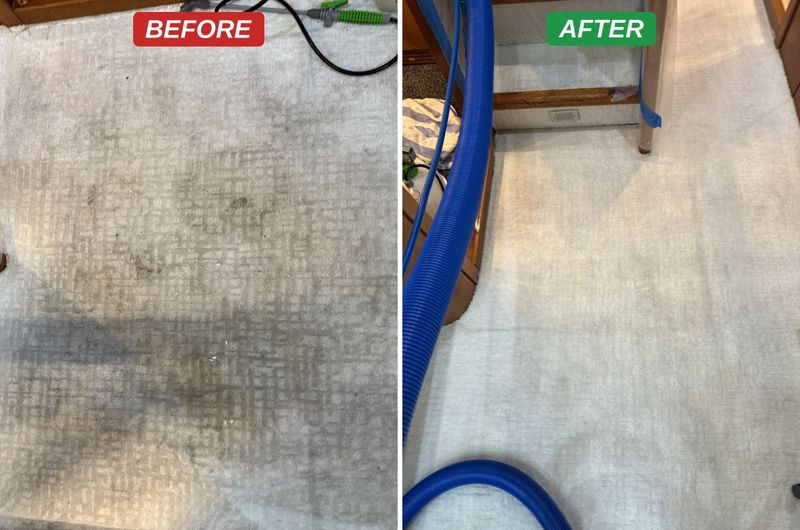
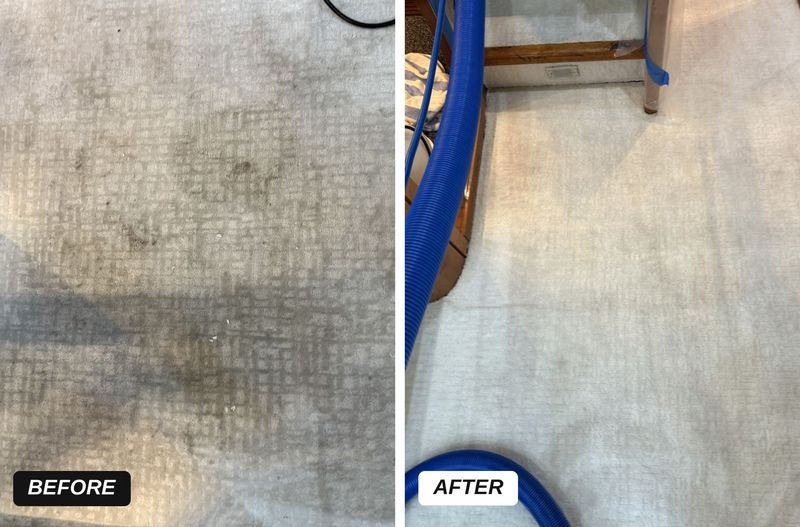
Move gallery badges to the bottom and add two more yacht jobs
Rebuild the salon, companionway stairs and passageway composites in the
bottom-badge layout (black BEFORE / white AFTER, bottom-left of each
half) so they match the new photos. Add the interior staircase and water
stain jobs, and centre the gallery's short last row.

Claude-Session: https://claude.ai/code/session_01GkRRDJhjXKMQgeat6JLyYT

diff --git a/precision-cleaning/src/App.jsx b/precision-cleaning/src/App.jsx
@@ -250,6 +250,8 @@ const SERVICE_DATA = {
       { image: "/images/marine/carpet-salon", title: "Salon Carpet", caption: "Traffic lanes & ground-in soiling lifted", alt: "Yacht salon carpet before and after steam extraction" },
       { image: "/images/marine/carpet-stairs", title: "Companionway Stairs", caption: "Every tread deep cleaned, walls masked & protected", alt: "Yacht companionway stair carpet before and after cleaning" },
       { image: "/images/marine/carpet-passage", title: "Passageway Carpet", caption: "Heavy soiling & spotting extracted", alt: "Yacht passageway carpet before and after steam extraction" },
+      { image: "/images/marine/carpet-staircase", title: "Interior Staircase", caption: "Traffic soiling lifted & pile restored on every step", alt: "Yacht interior staircase carpet before and after cleaning" },
+      { image: "/images/marine/carpet-water-stain", title: "Water Stain Removal", caption: "Brown water staining lifted from light carpet", alt: "Light yacht carpet with brown water stains before and after cleaning" },
     ],
     services: [
       {
@@ -547,7 +549,7 @@ export default function PrecisionCleaning() {
 
         @media (max-width: 900px) {
           .showcase-row, .pricing-grid { grid-template-columns: 1fr !important; gap: 32px !important; }
-          .gallery-grid { grid-template-columns: 1fr !important; }
+          .gallery-grid > * { flex-basis: 100% !important; }
           .showcase-row > * { order: 0 !important; }
           .price-card { position: relative !important; right: auto !important; bottom: auto !important; margin: -64px 16px 0; }
         }
@@ -865,15 +867,16 @@ export default function PrecisionCleaning() {
                       </h3>
                     </div>
                   </FadeIn>
-                  <div className="gallery-grid" style={{ display: "grid", gridTemplateColumns: "repeat(3, 1fr)", gap: 24, alignItems: "stretch" }}>
+                  {/* Flex rather than grid so a short last row sits centred */}
+                  <div className="gallery-grid" style={{ display: "flex", flexWrap: "wrap", justifyContent: "center", gap: 24 }}>
                     {data.gallery.map((item, i) => (
-                      <FadeIn key={item.image} delay={i * 0.1} style={{ height: "100%" }}>
+                      <FadeIn key={item.image} delay={(i % 3) * 0.1} style={{ flex: "0 1 calc((100% - 48px) / 3)" }}>
                         <div style={{ height: "100%", display: "flex", flexDirection: "column", borderRadius: 12, overflow: "hidden", boxShadow: "0 16px 48px rgba(0,0,0,0.4)" }}>
                           <img
                             src={`${item.image}-1400.jpg`}
                             srcSet={srcSet(item.image, [800, 1400])}
                             sizes="(max-width: 900px) 100vw, 368px"
-                            width={1400} height={928}
+                            width={1400} height={922}
                             alt={item.alt}
                             loading="lazy" decoding="async"
                             style={{ width: "100%", height: "auto", display: "block" }}
